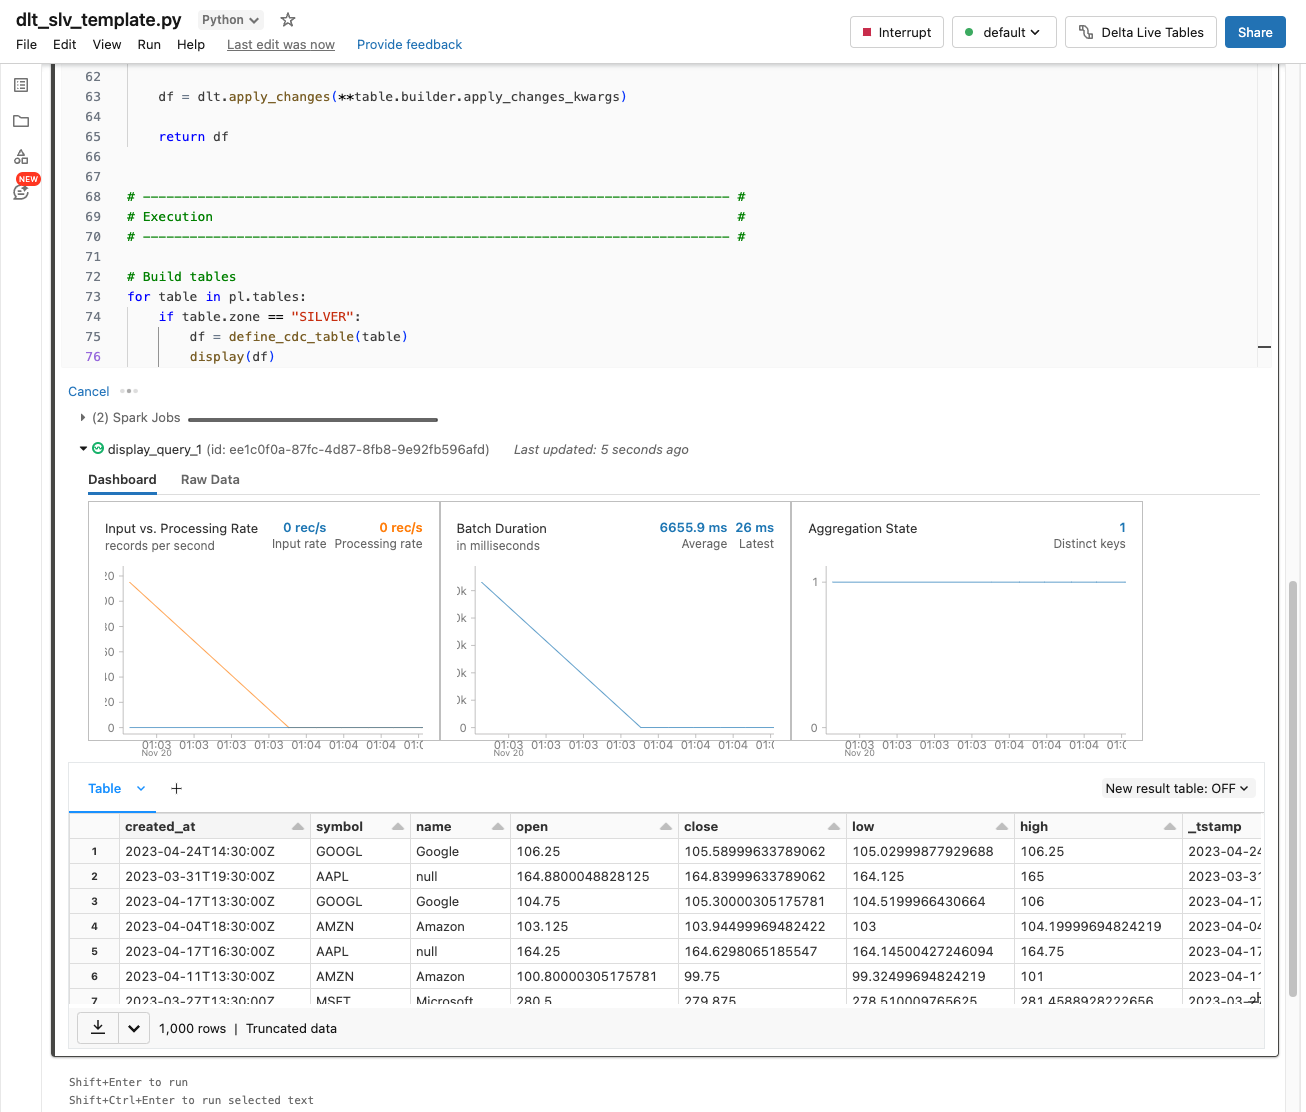
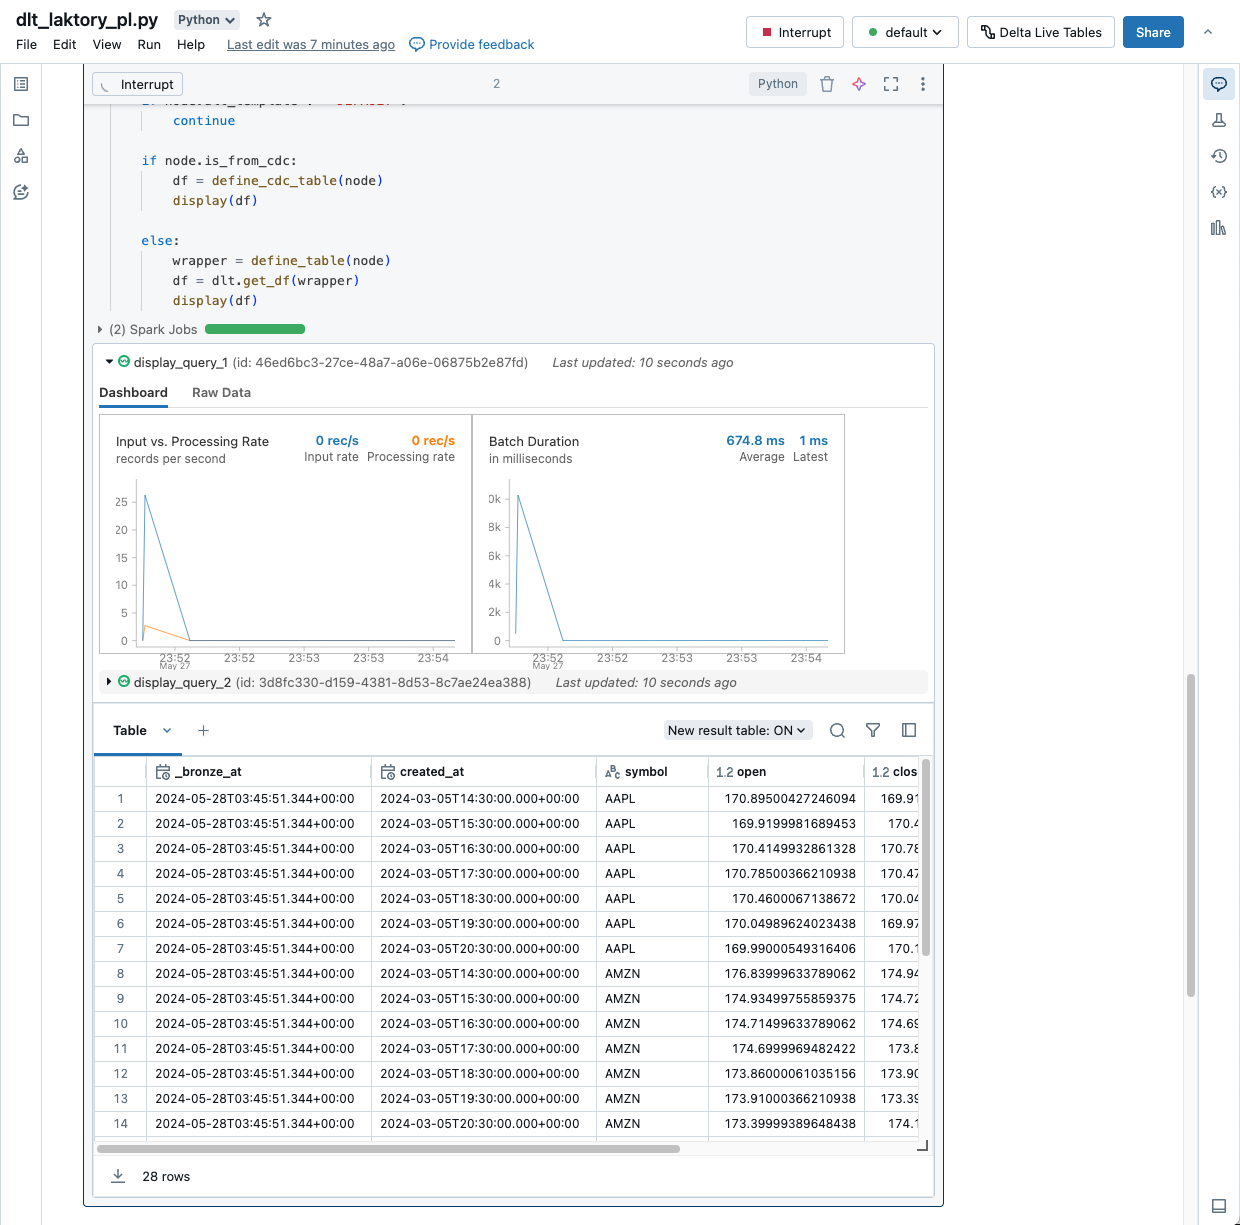
Update

diff --git a/laktory/dispatcher/dispatcher.py b/laktory/dispatcher/dispatcher.py
@@ -3,15 +3,16 @@ from databricks.sdk import WorkspaceClient
 from laktory._useragent import DATABRICKS_USER_AGENT
 from laktory._useragent import VERSION
 from laktory.models.stacks.stack import Stack
-from laktory.dispatcher.pipelinerunner import PipelineRunner
+from laktory.dispatcher.dltpipelinerunner import DLTPipelineRunner
 from laktory.dispatcher.jobrunner import JobRunner
 
 
 class Dispatcher:
     """
     The dispatcher is a manager that can be used to run and monitor remote jobs
-    and pipelines defined in a stack. It is generally used through Laktory CLI
-    `run` command, but may be used directly in scripts and python programs.
+    and DLT pipelines defined in a stack. It is generally used through Laktory
+    CLI `run` command, but may be used directly in scripts and python
+    programs.
 
     Parameters
     ----------
@@ -55,15 +56,20 @@ class Dispatcher:
 
         for k, pl in self.stack.resources.pipelines.items():
             if pl.dlt is not None:
-                self.resources[pl.dlt.resource_name] = PipelineRunner(
+                self.resources[pl.dlt.name] = DLTPipelineRunner(
                     dispatcher=self, name=pl.dlt.name
                 )
 
+            if pl.databricks_job is not None:
+                self.resources[pl.databricks_job.name] = JobRunner(
+                    dispatcher=self, name=pl.databricks_job.name
+                )
+
         for k, pl in self.stack.resources.databricks_dltpipelines.items():
-            self.resources[k] = PipelineRunner(dispatcher=self, name=pl.name)
+            self.resources[pl.name] = DLTPipelineRunner(dispatcher=self, name=pl.name)
 
         for k, job in self.stack.resources.databricks_jobs.items():
-            self.resources[k] = JobRunner(dispatcher=self, name=job.name)
+            self.resources[job.name] = JobRunner(dispatcher=self, name=job.name)
 
     # ----------------------------------------------------------------------- #
     # Environment                                                             #
@@ -176,18 +182,18 @@ class Dispatcher:
         job = self.resources[job_name]
         job.run(*args, **kwargs)
 
-    def run_pipeline(self, pipeline_name: str, *args, **kwargs):
+    def run_dlt(self, dlt_name: str, *args, **kwargs):
         """
-        Run pipeline with name `pipeline_name`
+        Run DLT pipeline with name `dlt_name`
 
         Parameters
         ----------
-        pipeline_name:
-            Name of the pipeline
+        dlt_name:
+            Name of the DLT pipeline
         *args:
             Arguments passed to `JobRunner.run()`
         **kwargs:
             Keyword arguments passed to `JobRunner.run()`
         """
-        pl = self.resources[pipeline_name]
+        pl = self.resources[dlt_name]
         pl.run(*args, **kwargs)

diff --git a/laktory/cli/_run.py b/laktory/cli/_run.py
@@ -9,7 +9,7 @@ from laktory.dispatcher.dispatcher import Dispatcher
 @app.command()
 def run(
     job: Annotated[str, typer.Option("--job", "-j", help="Job name")] = None,
-    pipeline: Annotated[str, typer.Option("--pipeline", "-p", help="Job name")] = None,
+    dlt: Annotated[str, typer.Option("--dlt", "-dlt", help="Job name")] = None,
     timeout: Annotated[
         float,
         typer.Option(
@@ -41,14 +41,14 @@ def run(
     ] = "./stack.yaml",
 ):
     """
-    Execute remote job or pipeline and monitor failures until completion.
+    Execute remote job or DLT pipeline and monitor failures until completion.
 
     Parameters
     ----------
     job:
-        Name of the job to run (mutually exclusive with pipeline)
-    pipeline:
-        Name of the pipeline to run (mutually exclusive with pipeline)
+        Name of the job to run (mutually exclusive with dlt)
+    dlt:
+        Name of the DLT pipeline to run (mutually exclusive with job)
     timeout:
         Maximum allowed time (in seconds) for run.
     raise_exception:
@@ -65,16 +65,16 @@ def run(
     Examples
     --------
     ```cmd
-    laktory run --env dev -p pl-stock-prices --full_refresh --action CANCEL
+    laktory run --env dev --dlt pl-stock-prices --full_refresh --action CANCEL
     ```
 
     """
 
     # Set Resource Name
-    if job and pipeline:
-        raise ValueError("Only one of `job` or `pipeline` should be set.")
-    if not (job or pipeline):
-        raise ValueError("One of `job` or `pipeline` should be set.")
+    if job and dlt:
+        raise ValueError("Only one of `job` or `dlt` should be set.")
+    if not (job or dlt):
+        raise ValueError("One of `job` or `dlt` should be set.")
 
     # Set Dispatcher
     controller = CLIController(
@@ -92,9 +92,9 @@ def run(
             current_run_action=current_run_action,
         )
 
-    if pipeline:
-        dispatcher.run_pipeline(
-            pipeline_name=pipeline,
+    if dlt:
+        dispatcher.run_dlt(
+            dlt_name=dlt,
             timeout=timeout,
             raise_exception=raise_exception,
             current_run_action=current_run_action,

diff --git a/laktory/cli/_quickstart.py b/laktory/cli/_quickstart.py
@@ -99,8 +99,8 @@ def quickstart(
             f"Node type for pipeline (e.g.: Standard_DS3_v2, c5.2xlarge, etc.): "
         )
 
-    if not os.path.exists("./notebooks/pipelines"):
-        os.makedirs("./notebooks/pipelines")
+    if not os.path.exists("./notebooks/dlt"):
+        os.makedirs("./notebooks/dlt")
     if not os.path.exists("./data"):
         os.makedirs("./data")
 
@@ -112,7 +112,7 @@ def quickstart(
             data = fp.read()
             data = data.replace("pl-stock-prices", "pl-quickstart")
 
-        with open(f"./notebooks/pipelines/{filename}", "w") as fp:
+        with open(f"./notebooks/dlt/{filename}", "w") as fp:
             fp.write(data)
 
     # Copy data

diff --git a/tests/test_dispatcher.py b/tests/test_dispatcher.py
@@ -33,12 +33,14 @@ def test_workspace_client():
 def test_resources():
     dispatcher = Dispatcher(stack=stack)
 
+    print(dispatcher.resources.keys())
+
     assert list(dispatcher.resources.keys()) == [
-        "dlt-custom-name",
+        "pl-stock-prices-ut-stack",
         "job-stock-prices-ut-stack",
     ]
     job = dispatcher.resources["job-stock-prices-ut-stack"]
-    dlt = dispatcher.resources["dlt-custom-name"]
+    dlt = dispatcher.resources["pl-stock-prices-ut-stack"]
 
     assert job.model_dump() == {"name": "job-stock-prices-ut-stack", "id": None}
     assert dlt.model_dump() == {"name": "pl-stock-prices-ut-stack", "id": None}

diff --git a/laktory/dispatcher/__init__.py b/laktory/dispatcher/__init__.py
@@ -1,4 +1,4 @@
 from laktory.dispatcher.dispatcher import Dispatcher
 from laktory.dispatcher.jobrunner import JobRunner
-from laktory.dispatcher.pipelinerunner import PipelineRunner
+from laktory.dispatcher.dltpipelinerunner import DLTPipelineRunner
 from laktory.dispatcher.dispatcherrunner import DispatcherRunner

diff --git a/laktory/dispatcher/dltpipelinerunner.py b/laktory/dispatcher/dltpipelinerunner.py
@@ -13,9 +13,9 @@ from laktory._logger import get_logger
 logger = get_logger(__name__)
 
 
-class PipelineRunner(DispatcherRunner):
+class DLTPipelineRunner(DispatcherRunner):
     """
-    Pipeline runner.
+    DLT Pipeline runner.
     """
 
     _update_start: StartUpdateResponse = None

diff --git a/docs/quickstart.md b/docs/quickstart.md
@@ -20,17 +20,14 @@ Once completed, the stack files and resources have been created.
 The `stack.yaml` file is the main entry point defining the `name` of the stack, the selected `backend` and the list
 of `resources` to be deployed. 
 
-In this example, we define 4 resources:
+In this example, we define 3 resources:
 
 - 1 data file (DBFSFile)
-- 2 notebooks
-- 1 pipeline 
-
-The pipeline also defines the data transformation for the bronze and silver tables.
+- 1 notebooks
+- 1 pipeline
 
 #### Notebook Files
-The `notebooks/pipelines/dlt_brz_template.py` and `notebooks/pipelines/dlt_slv_template.py` files are the notebooks
-used by the pipeline.
+The `notebooks/dlt/dlt_laktory_pl.py` file is the standard notebook used by Laktory pipelines using DLT orchestrator.
 
 #### Data File
 The `data/stock_prices.json` file is a data file storing stock prices. 
@@ -59,37 +56,52 @@ laktory deploy --env dev
 ```
 
 ### Run your pipeline
-Once deployed, you pipeline is ready to be run.
+Once deployed, you pipeline is ready to be run through Databricks UI
 ![pl-stock-prices](images/pl_quickstart.png)
+
+or using laktory CLI
+```cmd
+laktory run --dlt pl-quickstart
+```
 
 ### Debug your pipeline
 If you need to debug or modify one of your pipeline's notebook, Laktory makes it very easy by allowing you to run and inspect (with some limitations) the output data outside of the DLT pipeline.
 
-```py title="dlt_slv_template.py"
+```py title="dlt_laktory_pl.py"
 from laktory import dlt
-from laktory import read_metadata
+from laktory import models
 from laktory import get_logger
+from laktory import settings
 
 dlt.spark = spark
 logger = get_logger(__name__)
 
 # Read pipeline definition
 pl_name = spark.conf.get("pipeline_name", "pl-quickstart")
-pl = read_metadata(pipeline=pl_name)
+filepath = f"/Workspace{settings.workspace_laktory_root}pipelines/{pl_name}.json"
+with open(filepath, "r") as fp:
+    pl = models.Pipeline.model_validate_json(fp.read())
+
+# --------------------------------------------------------------------------- #
+# Tables and Views Definition                                                 #
+# --------------------------------------------------------------------------- #
 
 
-# Define table
-def define_table(table):
-    @dlt.table(name=table.name, comment=table.comment)
+def define_table(node):
+    @dlt.table_or_view(
+        name=node.name,
+        comment=node.description,
+        as_view=node.sink is None,
+    )
+    @dlt.expect_all(node.warning_expectations)
+    @dlt.expect_all_or_drop(node.drop_expectations)
+    @dlt.expect_all_or_fail(node.fail_expectations)
     def get_df():
-        logger.info(f"Building {table.name} table")
+        logger.info(f"Building {node.name} node")
 
-        # Read Source
-        df = table.builder.read_source(spark)
+        # Execute node
+        df = node.execute(spark=spark, udfs=udfs)
         df.printSchema()
-
-        # Process
-        df = table.builder.process(df, spark=spark)
 
         # Return
         return df
@@ -101,12 +113,15 @@ def define_table(table):
 # Execution                                                                   #
 # --------------------------------------------------------------------------- #
 
-# Build tables
-for table in pl.tables:
-    if table.layer == "SILVER":
-        wrapper = define_table(table)
-        df = dlt.get_df(wrapper)
-        display(df)
+# Build nodes
+for node in pl.nodes:
+
+    if node.dlt_template != "DEFAULT":
+        continue
+
+    wrapper = define_table(node)
+    df = dlt.get_df(wrapper)
+    display(df)
 ```
 
 Output:

diff --git a/docs/concepts/cli.md b/docs/concepts/cli.md
@@ -26,7 +26,7 @@ The CLI also offers a `quickstart` command for quickly setting up a working exam
 `laktory deploy` executes the deployment by creating or updating resources.  Similar to `pulumi up` or `terraform apply`.
 
 #### run
-`laktory run` execute remote job or pipeline and monitor failures until completion.
+`laktory run` execute remote job or DLT pipeline and monitor failures until completion. Local execution (without an orchestrator) of a pipeline is not yet supported.
 
 ### CI/CD
 These commands can be run locally, but really start to provide value in the context of a CI/CD pipeline in which 

diff --git a/docs/api/dispatcher/pipelinerunner.md b/docs/api/dispatcher/pipelinerunner.md
@@ -1,1 +1,1 @@
-::: laktory.dispatcher.PipelineRunner
+::: laktory.dispatcher.DLTPipelineRunner
